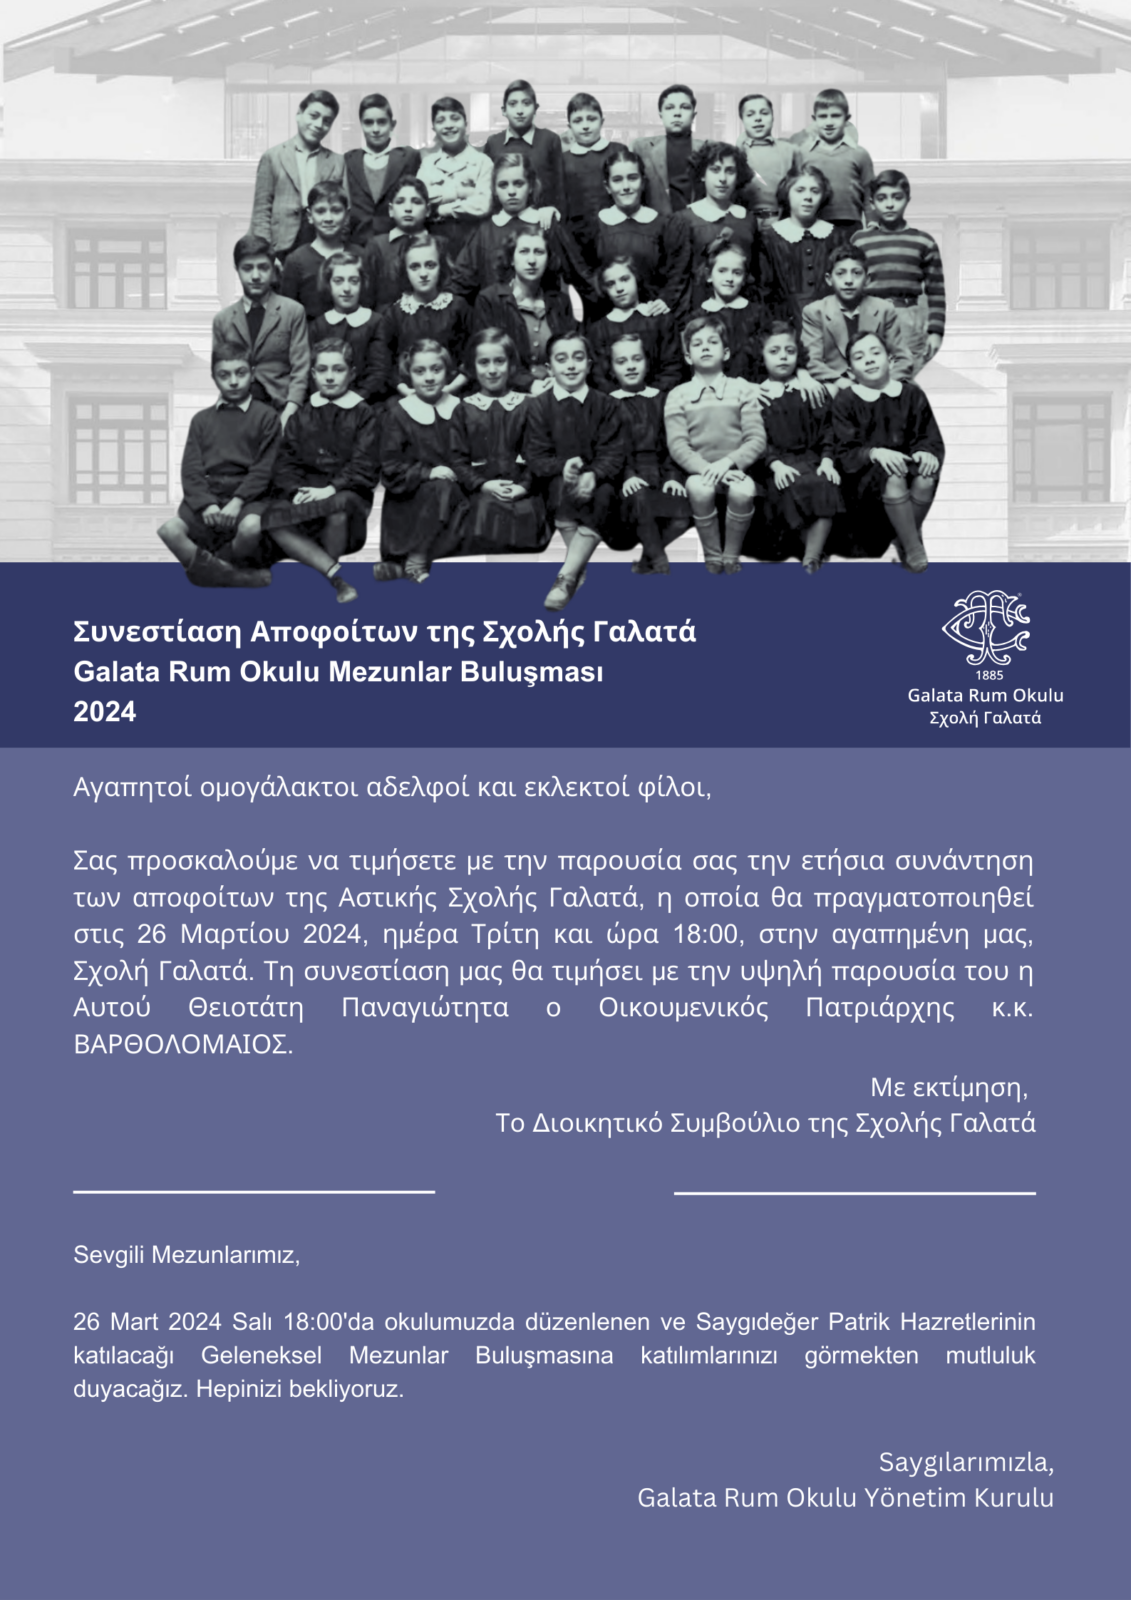
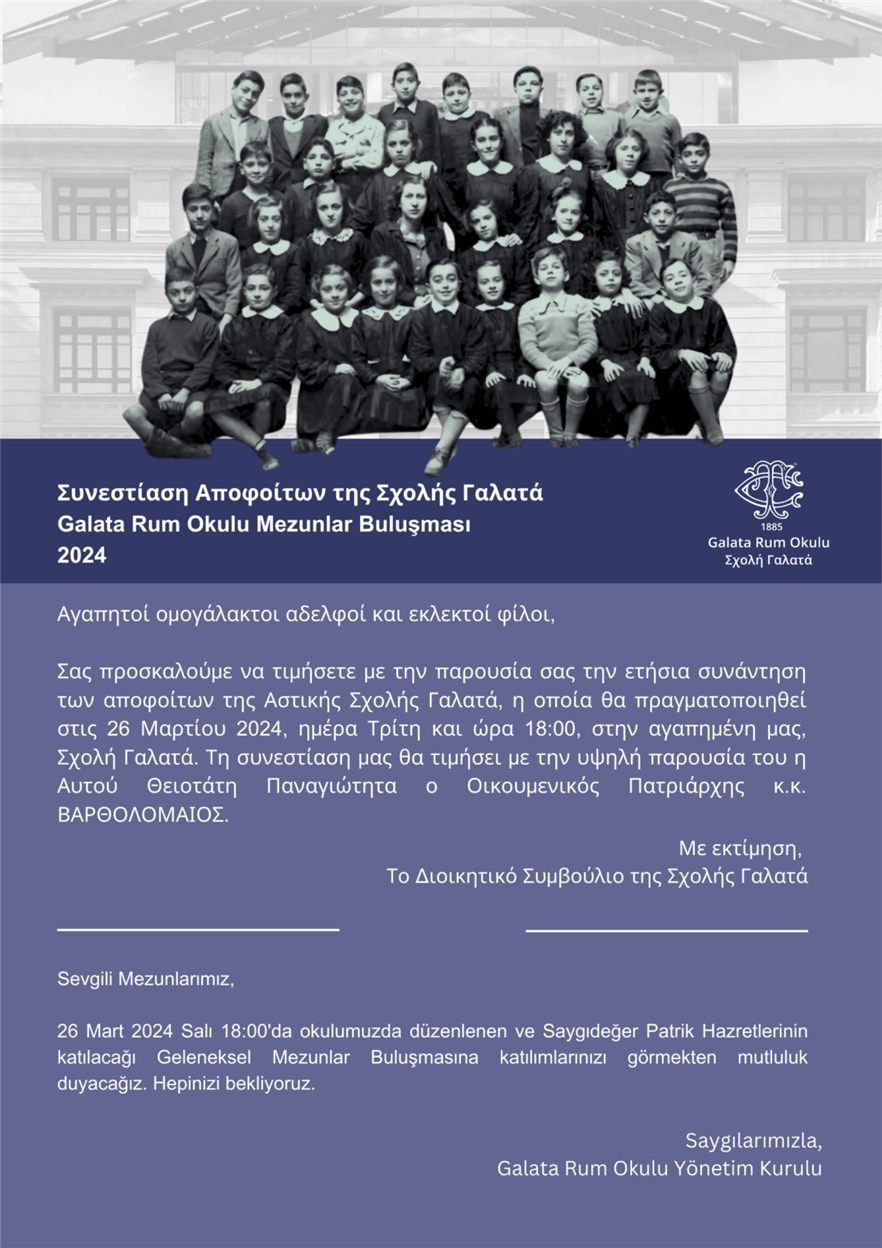
perf(vercel): optimize large static event assets and normalize prerendered OG/schema image URLs to Vercel CDN

diff --git a/src/services/dbSync.ts b/src/services/dbSync.ts
@@ -199,12 +199,12 @@ export const CANONICAL_VENUE_MICE_DATA: Record<number, CanonicalVenueMiceConfig>
             '12 Κουζίνα Εξυπηρέτησης & Δυνατότητα Catering από το Εστιατόριο Simone',
             'Διπλοί Ανελκυστήρες ΑμεΑ & Κλιμακοστάσια Ασφαλείας (06, 10)',
         ],
-        image_url: 'https://tvloakrlqazcadokliaf.supabase.co/storage/v1/object/public/media/venue/mz81jyod0nq_1773083709418.webp',
+        image_url: '/supabase-media/venue/mz81jyod0nq_1773083709418.webp',
         thumbnail_images: [
-            'https://tvloakrlqazcadokliaf.supabase.co/storage/v1/object/public/media/venue/ec39t6bl3hd_1773083599484.webp',
-            'https://tvloakrlqazcadokliaf.supabase.co/storage/v1/object/public/media/venue/bg6errwn25u_1773083618325.webp',
-            'https://tvloakrlqazcadokliaf.supabase.co/storage/v1/object/public/media/venue/afnuua7o3ah_1773083641141.webp',
-            'https://tvloakrlqazcadokliaf.supabase.co/storage/v1/object/public/media/venue/j68cg174mir_1773083669472.webp',
+            '/supabase-media/venue/ec39t6bl3hd_1773083599484.webp',
+            '/supabase-media/venue/bg6errwn25u_1773083618325.webp',
+            '/supabase-media/venue/afnuua7o3ah_1773083641141.webp',
+            '/supabase-media/venue/j68cg174mir_1773083669472.webp',
         ],
         techSpecs: {
             ceilingHeight: {
@@ -279,11 +279,11 @@ export const CANONICAL_VENUE_MICE_DATA: Record<number, CanonicalVenueMiceConfig>
             '01 Κεντρικό Κλιμακοστάσιο + 07 & 09 Κλιμακοστάσια Ασφαλείας',
             'Διπλοί Ανελκυστήρες ΑμεΑ (Ανατολικά & Δυτικά)',
         ],
-        image_url: 'https://tvloakrlqazcadokliaf.supabase.co/storage/v1/object/public/media/venue/ap0hijmh6rn_1773083839555.webp',
+        image_url: '/supabase-media/venue/ap0hijmh6rn_1773083839555.webp',
         thumbnail_images: [
-            'https://tvloakrlqazcadokliaf.supabase.co/storage/v1/object/public/media/venue/spxudaa4qm9_1773083863877.webp',
-            'https://tvloakrlqazcadokliaf.supabase.co/storage/v1/object/public/media/venue/67zjoy8xv0v_1773083872018.webp',
-            'https://tvloakrlqazcadokliaf.supabase.co/storage/v1/object/public/media/venue/h3t2o8sr1f_1773083881680.webp',
+            '/supabase-media/venue/spxudaa4qm9_1773083863877.webp',
+            '/supabase-media/venue/67zjoy8xv0v_1773083872018.webp',
+            '/supabase-media/venue/h3t2o8sr1f_1773083881680.webp',
         ],
         techSpecs: {
             ceilingHeight: {
@@ -358,11 +358,11 @@ export const CANONICAL_VENUE_MICE_DATA: Record<number, CanonicalVenueMiceConfig>
             '15 Αποθήκη Ορόφου & 16 Συγκρότημα WC (με WC ΑμεΑ)',
             'Διπλοί Ανελκυστήρες ΑμεΑ + 3 Κλιμακοστάσια (01, 07, 17)',
         ],
-        image_url: 'https://tvloakrlqazcadokliaf.supabase.co/storage/v1/object/public/media/venue/idso4ws063_1773084000348.webp',
+        image_url: '/supabase-media/venue/idso4ws063_1773084000348.webp',
         thumbnail_images: [
-            'https://tvloakrlqazcadokliaf.supabase.co/storage/v1/object/public/media/venue/qe9jvxrmfdn_1773084012264.webp',
-            'https://tvloakrlqazcadokliaf.supabase.co/storage/v1/object/public/media/venue/9zg4pl7tr6_1773084019065.webp',
-            'https://tvloakrlqazcadokliaf.supabase.co/storage/v1/object/public/media/venue/le67ll2cb_1773084025160.webp',
+            '/supabase-media/venue/qe9jvxrmfdn_1773084012264.webp',
+            '/supabase-media/venue/9zg4pl7tr6_1773084019065.webp',
+            '/supabase-media/venue/le67ll2cb_1773084025160.webp',
         ],
         techSpecs: {
             ceilingHeight: {
@@ -437,11 +437,11 @@ export const CANONICAL_VENUE_MICE_DATA: Record<number, CanonicalVenueMiceConfig>
             'Διπλοί Σύγχρονοι Ανελκυστήρες ΑμεΑ & Κλιμακοστάσια Ασφαλείας',
             'Πλήρης Αποκλειστικότητα (Ο 4ος Όροφος Αρχείου είναι εκτός μίσθωσης)',
         ],
-        image_url: 'https://tvloakrlqazcadokliaf.supabase.co/storage/v1/object/public/media/venue/mz81jyod0nq_1773083709418.webp',
+        image_url: '/supabase-media/venue/mz81jyod0nq_1773083709418.webp',
         thumbnail_images: [
-            'https://tvloakrlqazcadokliaf.supabase.co/storage/v1/object/public/media/venue/ap0hijmh6rn_1773083839555.webp',
-            'https://tvloakrlqazcadokliaf.supabase.co/storage/v1/object/public/media/venue/idso4ws063_1773084000348.webp',
-            'https://tvloakrlqazcadokliaf.supabase.co/storage/v1/object/public/media/venue/ec39t6bl3hd_1773083599484.webp',
+            '/supabase-media/venue/ap0hijmh6rn_1773083839555.webp',
+            '/supabase-media/venue/idso4ws063_1773084000348.webp',
+            '/supabase-media/venue/ec39t6bl3hd_1773083599484.webp',
         ],
         techSpecs: {
             ceilingHeight: {

diff --git a/src/pages/EventDetailPage/EventDetailPage.tsx b/src/pages/EventDetailPage/EventDetailPage.tsx
@@ -122,7 +122,7 @@ export default function EventDetailPage() {
                     "description": seoDescription,
                     "url": `${PRODUCTION_SITE_ORIGIN}${localizePath(`/gecmis-etkinlikler/${stabilizedSlug}`)}`,
                     "startDate": eventData.event_date || '',
-                    "image": eventData.cover_image_url || '',
+                    "image": coverImageUrl.startsWith('/') ? `${PRODUCTION_SITE_ORIGIN}${coverImageUrl}` : coverImageUrl,
                     "location": {
                         "@type": "Place",
                         "name": venueName,
